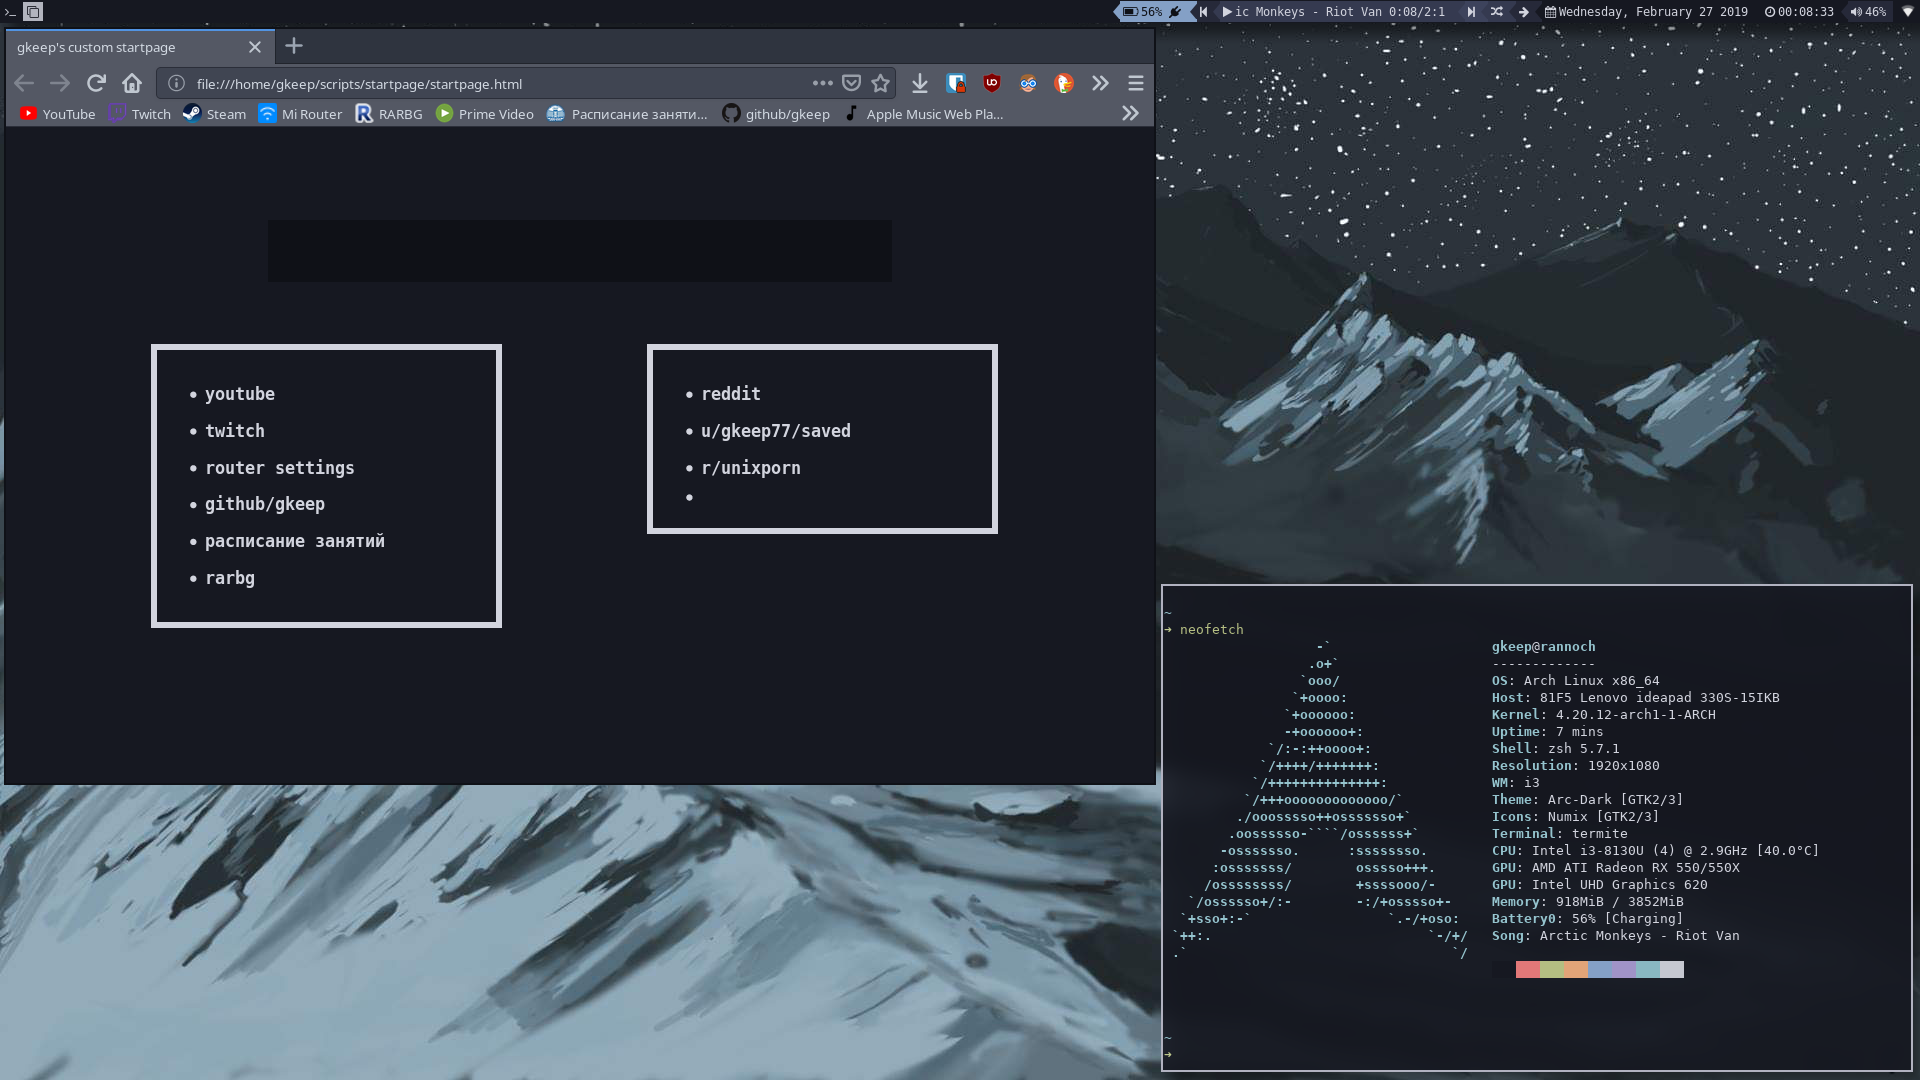
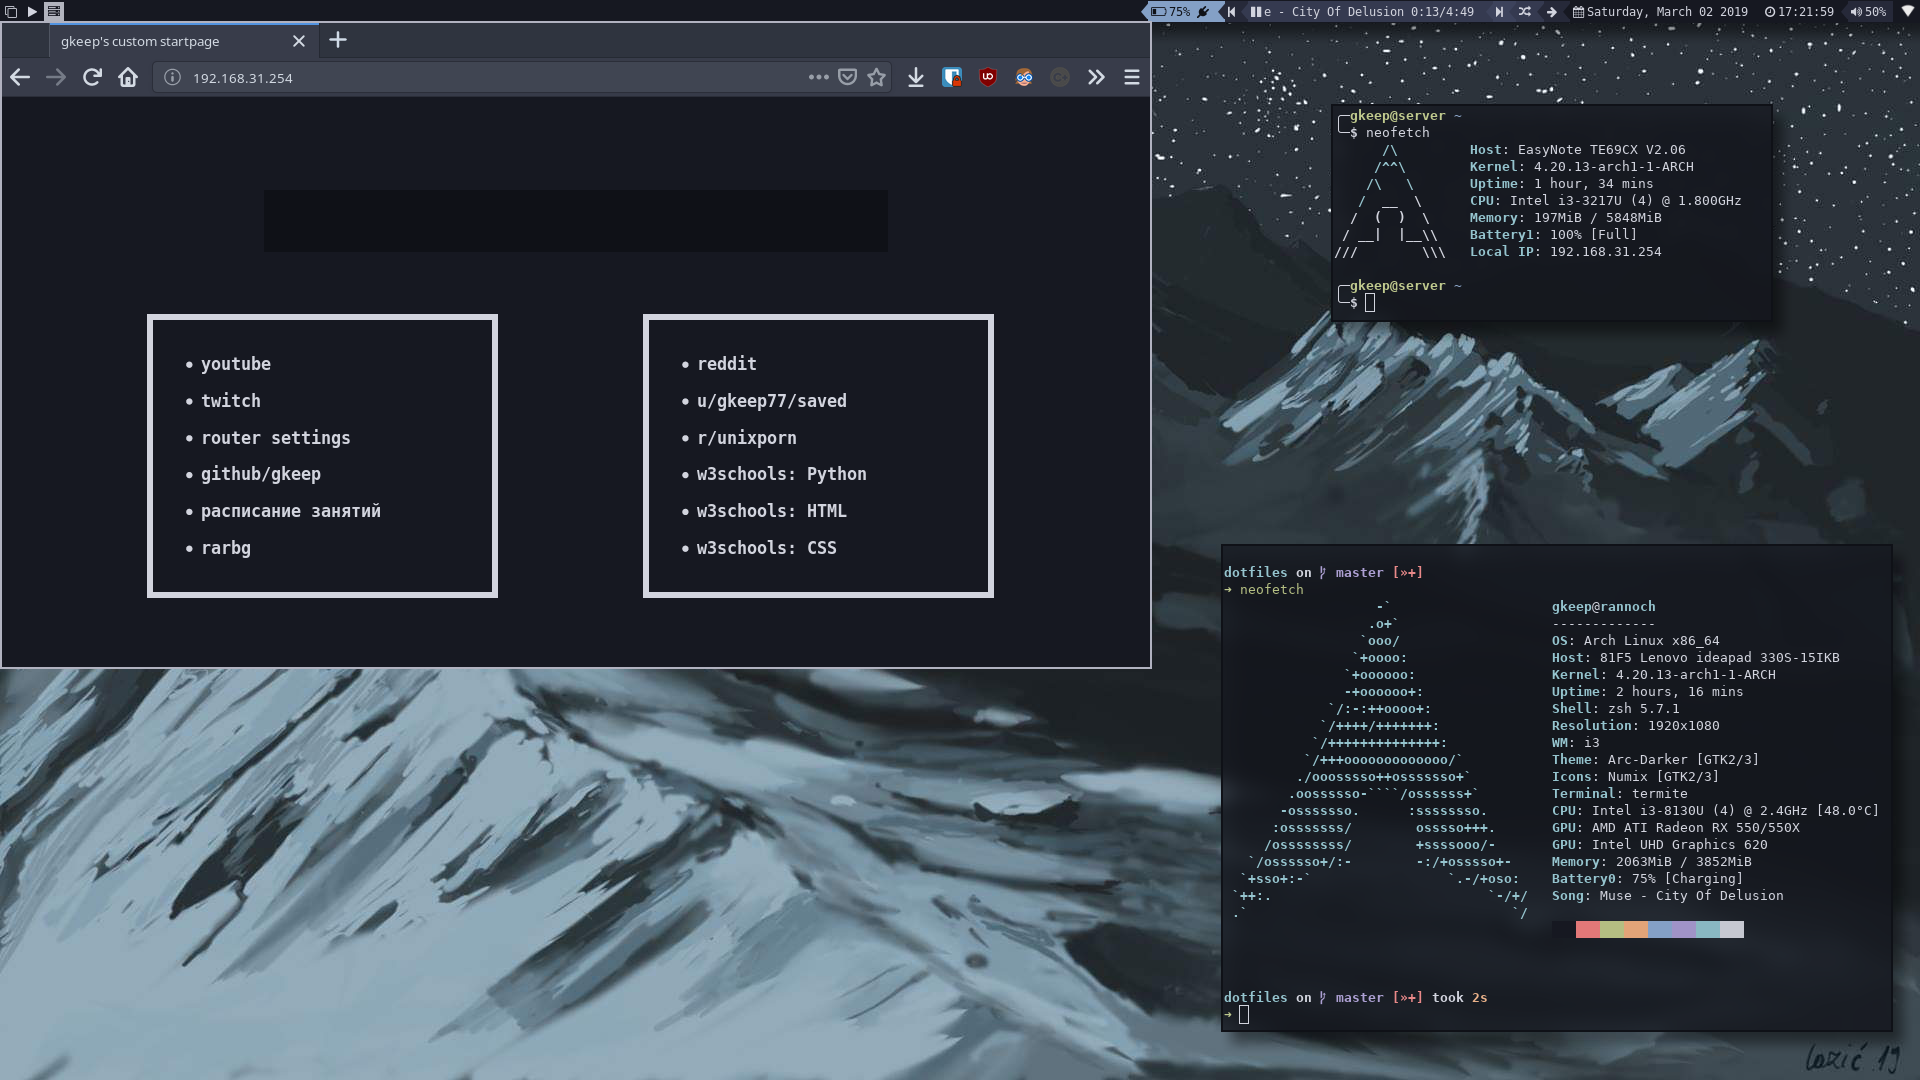
Updated all configs and startpage

diff --git a/startpage/startpage.html b/startpage/startpage.html
@@ -1,12 +1,12 @@
 <!DOCTYPE html>
 <html>
 <head>
-    <link rel="stylesheet" href="css.css">
+    <link rel="stylesheet" href="style.css">
     <title>gkeep's custom startpage</title>
 </head>
 <body>
 	<div class="flex search-container">
-        <div class="flex">
+        	<div class="flex">
 			<form class="flex" action="https://duckduckgo.com/">
                 <input class="search" type="search" name="q">
 			</form>
@@ -18,7 +18,7 @@
             <li><p><a href="https://www.twitch.tv/directory/following/live">twitch</a></p></li>
             <li><p><a href="http://192.168.31.1/cgi-bin/luci/web">router settings</a></p></li>
             <li><p><a href="https://github.com/gkeep">github/gkeep</a></p></li>
-	        <li><p><a href="http://pkgh.edu.ru/obuchenie/shedule-of-classes.html"><meta http-equiv="content-type" content="text/html;charset=utf-8"/>расписание занятий</a></p></li>
+	    <li><p><a href="http://pkgh.edu.ru/obuchenie/shedule-of-classes.html"><meta http-equiv="content-type" content="text/html;charset=utf-8"/>расписание занятий</a></p></li>
             <li><p><a href="https://rarbgmirror.xyz/torrents.php">rarbg</a></p></li>
         </ul>
     </div>
@@ -27,8 +27,10 @@
             <li><p><a href="https://www.reddit.com">reddit</a></p></li>
             <li><p><a href="https://www.reddit.com/user/GKeeP77/saved/">u/gkeep77/saved</a></p></li>
             <li><p><a href="https://www.reddit.com/r/unixporn/">r/unixporn</a></p></li>
-            <li><p><a href=""></a></p></li>
-        </ul>
+            <li><p><a href="https://www.w3schools.com/python/default.asp">w3schools: Python</a></p></li>
+            <li><p><a href="https://www.w3schools.com/html/default.asp">w3schools: HTML</a></p></li>
+            <li><p><a href="https://www.w3schools.com/css/default.asp">w3schools: CSS</a></p></li>
+	</ul>
     </div>
 </body>
 </html>

diff --git a/startpage/style.css b/startpage/style.css
@@ -1,6 +1,6 @@
 body {
     background-color: #161821;
-    font-family: DejaVuSansMono Nerd Font;
+    font-family: DejaVu Sans Mono;
     font-size: 14px;
 }
 .flex {
